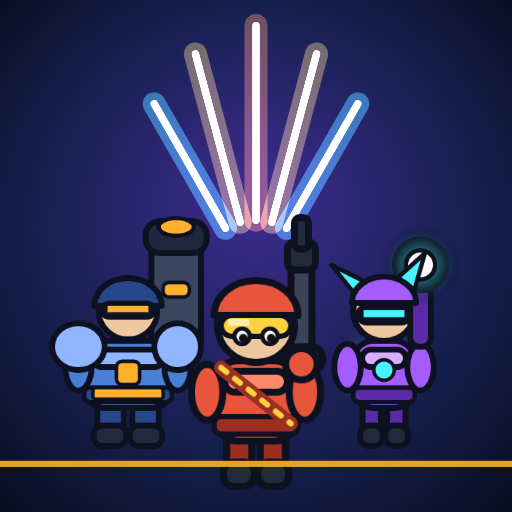
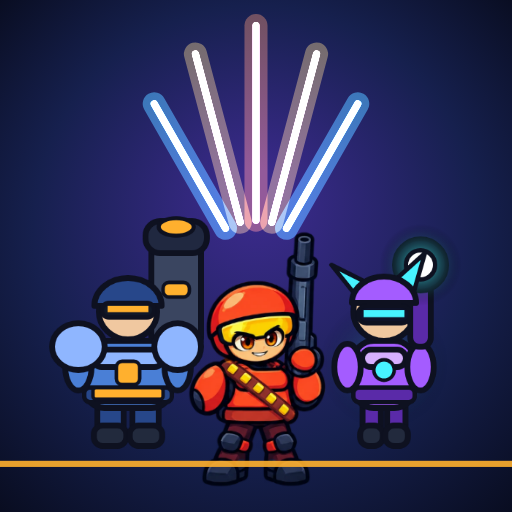
Vanguard: use the artist's new sprite sheet
- art_src/: the artist's raw sheet (1536x1024) and the atlas they sent, kept for provenance.
- tools/art/pack-sheet.mjs: their atlas coordinates describe a different layout from the picture, so the
  poses are found from the transparency, scaled by one common factor, and packed with the feet on a shared
  baseline into art/vanguard.png (1296x928) + art/vanguard.json. Idle bob and fire-frame timings are carried over.
- art.js exposes the timings; the renderer uses the artist's bob and shows the fire frame for its duration.
- App icons regenerated from the new art; SHEET_SPEC and README updated.

Claude-Session: https://claude.ai/code/session_017YpgyBaMJj9Kz9Y4arkJox

Changed region(s): [[0.375, 0.4062, 0.6562, 0.9688]]

diff --git a/js/render/art.js b/js/render/art.js
@@ -31,7 +31,7 @@ export async function loadArt() {
       const atlasUrl = new URL(atlasPath, base());
       const atlas = await (await fetch(atlasUrl)).json();
       const img = await loadImage(new URL(atlas.image, atlasUrl).href);
-      loaded.set(key, { img, frames: atlas.frames, scale: atlas.scale, w: atlas.logical.w, h: atlas.logical.h });
+      loaded.set(key, { img, frames: atlas.frames, animations: atlas.animations || {}, scale: atlas.scale, w: atlas.logical.w, h: atlas.logical.h });
     } catch (e) {
       console.warn('[art] falling back to procedural art for', key, e.message);
       loaded.set(key, null);
@@ -48,6 +48,23 @@ export function artFrame(heroId, skinId, name = 'idle') {
   if (!sh) return null;
   const f = sh.frames[name] || sh.frames.idle;
   return f ? { img: sh.img, x: f.x, y: f.y, w: f.w, h: f.h, logicalW: sh.w, logicalH: sh.h } : null;
+}
+
+/**
+ * Timings the artist put in the atlas, or null for procedural heroes:
+ *   bobY / bobSec  idle bob (total travel in world px, period in seconds)
+ *   fireSec        how long the `fire` frame stays up after a shot
+ */
+export function artAnim(heroId, skinId) {
+  const sh = artSheet(heroId, skinId);
+  if (!sh) return null;
+  const bob = (sh.animations.idle || {}).bob;
+  const fire = sh.frames.fire || {};
+  return {
+    bobY: bob && bob.y > 0 ? bob.y : null,
+    bobSec: bob && bob.periodMs > 0 ? bob.periodMs / 1000 : null,
+    fireSec: fire.duration > 0 ? fire.duration / 1000 : null,
+  };
 }
 
 export function hasArtFrame(heroId, skinId, name) {

diff --git a/js/render/renderer.js b/js/render/renderer.js
@@ -6,6 +6,7 @@ import { WORLDS } from '../data/stages.js';
 import { skinColors } from '../data/heroes.js';
 import { enemySprite, bossSprite, heroSprite, droneSprite, turretSprite, flashOf, clearSpriteCache, WORLD_PAL } from './sprites.js';
 import { makeScenery, skyTop } from './scenery.js';
+import { artAnim } from './art.js';
 import { clamp, fmt, RNG } from '../util.js';
 
 const EL_COLOR = { phys: '#ffffff', fire: '#ff9a3c', energy: '#7df4ff', frost: '#9bd8ff', blast: '#ffd23f' };
@@ -494,8 +495,11 @@ export class Renderer {
     const k = this.k;
     for (const h of g.heroes) {
       // sprite-sheet heroes have a firing frame and an ability frame; procedural ones ignore the name
-      const s = heroSprite(h.id, h.skin, k, h.ab.active > 0 ? 'ability' : h.recoil > 0.45 ? 'fire' : 'idle');
-      const bob = Math.sin(this.t * 2.2 + h.idx) * 1.2;
+      // (h.recoil is 1 at the shot and falls by 8 per second, so a fire frame of `fireSec` shows while recoil > 1 - 8 * fireSec)
+      const an = artAnim(h.id, h.skin);
+      const fireOn = h.recoil > (an && an.fireSec ? 1 - 8 * an.fireSec : 0.45);
+      const s = heroSprite(h.id, h.skin, k, h.ab.active > 0 ? 'ability' : fireOn ? 'fire' : 'idle');
+      const bob = an && an.bobY && an.bobSec ? Math.sin((this.t / an.bobSec) * 6.2832 + h.idx) * (an.bobY / 2) : Math.sin(this.t * 2.2 + h.idx) * 1.2;
       const rc = Math.max(0, h.recoil) * 3;
       const dis = h.disabled > 0;
       ctx.fillStyle = 'rgba(0,0,0,.3)';

diff --git a/sw.js b/sw.js
@@ -3,7 +3,7 @@
  * - A new release changes BUILD (and so this file's bytes) -> the browser installs the new worker,
  *   which fills a new cache, takes over immediately, and deletes older caches.
  * Stamped by tools/stamp.mjs - BUILD and PRECACHE are generated; do not edit by hand. */
-const BUILD = '2acbd2a8dbe1';
+const BUILD = '74abd0628119';
 const CACHE = 'bullet-heroes-' + BUILD;
 const PRECACHE = [
   './art/vanguard.json',

diff --git a/js/version.js b/js/version.js
@@ -1,2 +1,2 @@
 // Stamped at build time by tools/stamp.mjs - do not edit by hand.
-export const BUILD = '2acbd2a8dbe1';
+export const BUILD = '74abd0628119';

diff --git a/art_desc/SHEET_SPEC.md b/art_desc/SHEET_SPEC.md
@@ -1,19 +1,31 @@
 # Sprite sheet contract (for the engineer and the artist)
 
-One transparent PNG per hero and skin, plus a JSON atlas next to it in `art/`.
+One transparent PNG per hero and skin, plus a JSON atlas next to it in `art/`. The game reads only the atlas, so frame
+positions and sizes can change as long as the JSON says so.
 
-- `art/vanguard.png`: 864 x 704, RGBA, transparent background.
-- `art/vanguard.json`: where each frame sits in the PNG.
+- `art/vanguard.png`: 1296 x 928, RGBA, transparent background.
+- `art/vanguard.json`: where each frame sits in the PNG, plus optional timings.
 
 | Frame | Where (x, y, w, h) | Used for |
 | --- | --- | --- |
-| `idle` | 0, 0, 288, 448 | standing in battle, the title scene, the home screen |
-| `fire` | 288, 0, 288, 448 | the instant after a shot (muzzle flash) |
-| `ability` | 576, 0, 288, 448 | while his ability is active (Overdrive) |
-| `icon` | 0, 448, 256, 256 | square head-and-shoulders portrait: hero cards, squad, upgrade and summon cards, ability buttons, app icon |
+| `idle` | 0, 0, 432, 672 | standing in battle, the title scene, the home screen |
+| `fire` | 432, 0, 432, 672 | shown for `duration` ms after each shot (muzzle flash) |
+| `ability` | 864, 0, 432, 672 | while the hero's ability is active (Overdrive) |
+| `icon` | 0, 672, 256, 256 | square head-and-shoulders portrait: hero cards, squad, upgrade and summon cards, ability buttons, app icon |
 
-- The three world frames are the same size (4x the in-game 72 x 112 box). The **feet sit about 12 px above the bottom**, and the figure is centred horizontally, because the game centres the frame on the hero's position and adds its own shadow.
+- The three world frames share one size, which is the in-game 72 x 112 box at 6x. The **feet sit 12 world px above the bottom edge (y = 600)**, centred horizontally, because the game centres the frame on the hero's position and adds its own shadow. Effects (flash, aura) may overhang.
 - The `icon` is drawn over a tinted gradient by the game, so keep its background transparent.
-- If the frame layout changes, edit the JSON. The game reads only the JSON.
+- Optional atlas timings: `animations.idle.bob` `{ y, periodMs }` (idle bob, total travel in world px) and `frames.fire.duration` (ms).
 - Other skins keep the procedural art until they get their own sheet; register it in `js/render/art.js` (`SHEETS`).
-- `node tools/art/export-sheet.mjs vanguard` regenerates the placeholder sheet from the procedural art.
+
+## From the artist's raw sheet to the game's sheet
+
+`art_src/vanguard_raw.webp` is the sheet as the artist delivered it (1536 x 1024: three poses in a row, a bust below).
+Their atlas coordinates (`art_src/vanguard_artist_atlas.json`) describe a different layout from the picture, so the packer
+ignores the coordinates and finds the poses from the transparency. It scales all three poses by the same factor (0.75),
+lines their feet up on the shared baseline and writes the sheet and atlas above:
+
+    node tools/art/pack-sheet.mjs vanguard
+
+For the next hero, drop `art_src/<hero>_raw.webp` (and optionally the artist's atlas, for the timings) in `art_src/`.
+`node tools/art/export-sheet.mjs <hero>` still makes a placeholder sheet from the procedural art.

diff --git a/README.md b/README.md
@@ -88,7 +88,7 @@ js/render/     canvas renderer, procedural sprites + backgrounds, particles
 js/audio/      WebAudio SFX synth + generative music sequencer
 js/ui/         screens (home, heroes, stages, squad, results, meta, settings) + combat controller/HUD
 js/            save.js (versioned, checksummed, backup), economy.js, progression.js, update.js, store.js
-art/, art_desc/  sprite sheets (shipped) and the artist briefs (not shipped)
+art/, art_desc/, art_src/  sprite sheets (shipped); artist briefs and the artists' raw sheets (not shipped)
 tools/         stamp/build/serve, balance bot, icon generator, dev pages
 tests/         node:test suites
 ```
@@ -97,10 +97,10 @@ tests/         node:test suites
 
 Heroes are drawn in code by default (`js/render/sprites.js`). A hero can be switched to real art one at a time:
 
-- `art/<hero>.png` is one transparent sprite sheet and `art/<hero>.json` is its atlas. Frames: `idle`, `fire`, `ability` (the 72 x 112 world box at 4x) and `icon` (a square bust for portraits and the app icon). The exact layout is in `art_desc/SHEET_SPEC.md`.
+- `art/<hero>.png` is one transparent sprite sheet and `art/<hero>.json` is its atlas. Frames: `idle`, `fire`, `ability` (the 72 x 112 world box at 6x) and `icon` (a square bust for portraits and the app icon). The exact layout is in `art_desc/SHEET_SPEC.md`.
 - `art_desc/<hero>.md` is a short description (500 words max) for the artist.
 - The sheet is registered in `js/render/art.js` (`SHEETS`, keyed `hero:skin`). Anything not registered, and any sheet that fails to load, keeps the procedural sprite, so the game always renders.
-- **Vanguard is the first hero converted** (default skin; his other skins still use the procedural art until they get sheets). `node tools/art/export-sheet.mjs vanguard` regenerates the placeholder sheet from the procedural drawing; an artist's finished PNG just replaces it. `node tools/gen-icons.mjs` rebuilds the app icons from the art.
+- **Vanguard is the first hero converted** (default skin; his other skins still use the procedural art until they get sheets). The artist's original sheet is kept in `art_src/` and `node tools/art/pack-sheet.mjs vanguard` repacks it into the game's layout (`art/vanguard.png` + `.json`, feet on a shared baseline, the artist's idle-bob and fire-frame timings carried over). `node tools/art/export-sheet.mjs <hero>` makes a placeholder sheet from the procedural art for heroes that have no artwork yet. `node tools/gen-icons.mjs` rebuilds the app icons from the art.
 
 ## Design-document coverage
 
